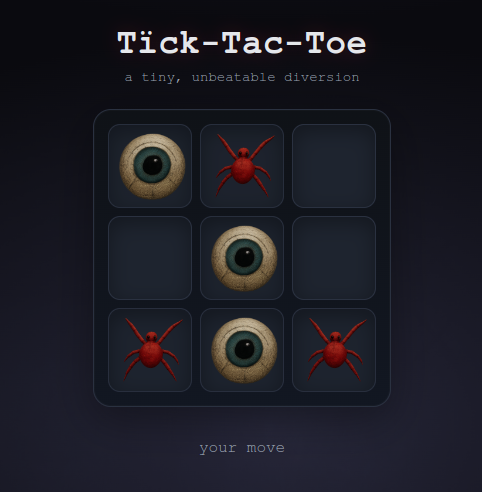
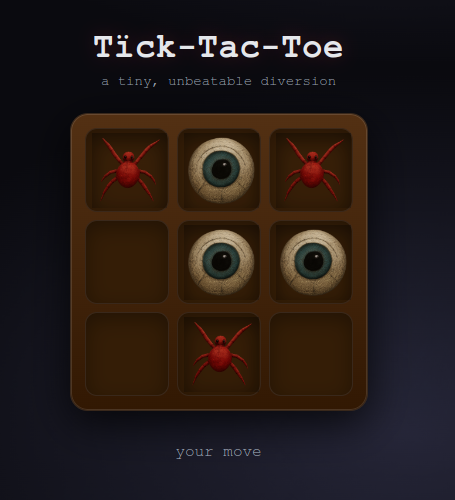
update board style

diff --git a/client/src/styles.css b/client/src/styles.css
@@ -6,8 +6,8 @@
   --muted: #9aa3b2;
   --accent: #c71f37;       /* blood red */
   --accent-2: #8f153b;     /* wine */
-  --tile: #1e2430;
-  --tile-edge: #2a3141;
+  --tile: #331d04;
+  --tile-edge: #38281a;
   --glow: rgba(199,31,55,0.25);
 }
 
@@ -84,10 +84,10 @@ body::after {
   display: grid;
   gap: 8px;
   padding: 14px;
-  background: linear-gradient(180deg, #0f1217, #121722);
+  background: linear-gradient(180deg, #523010, #311801);
   border: 1px solid var(--tile-edge);
   border-radius: 18px;
-  box-shadow: 0 12px 40px rgba(0,0,0,0.35), 0 0 0 1px rgba(255,255,255,0.02) inset;
+  box-shadow: 0 12px 40px rgba(0,0,0,0.75), 0 0 0 1px rgba(255,255,255,0.12) inset;
 }
 
 /* tiles */
@@ -97,7 +97,7 @@ body::after {
   background: var(--tile);
   border: 1px solid var(--tile-edge);
   border-radius: 12px;
-  box-shadow: 0 6px 20px rgba(0,0,0,0.35) inset;
+  box-shadow: 0 6px 20px rgba(0, 0, 0, 0.35) inset;
   transition: transform 120ms ease, box-shadow 120ms ease, border-color 120ms ease;
   cursor: pointer;
 }
@@ -120,7 +120,12 @@ body::after {
 }
 
 /* icon sizing */
-.icon { width: 75px; height: 75px; display: block; }
+.icon {
+  width: 75px;
+  height: 75px;
+  display: block;
+  box-shadow: 0 6px 20px rgba(0, 0, 0, 0.45) inset;
+}
 .icon--x { color: var(--x-color); }
 .icon--o { color: var(--o-color); }
 
